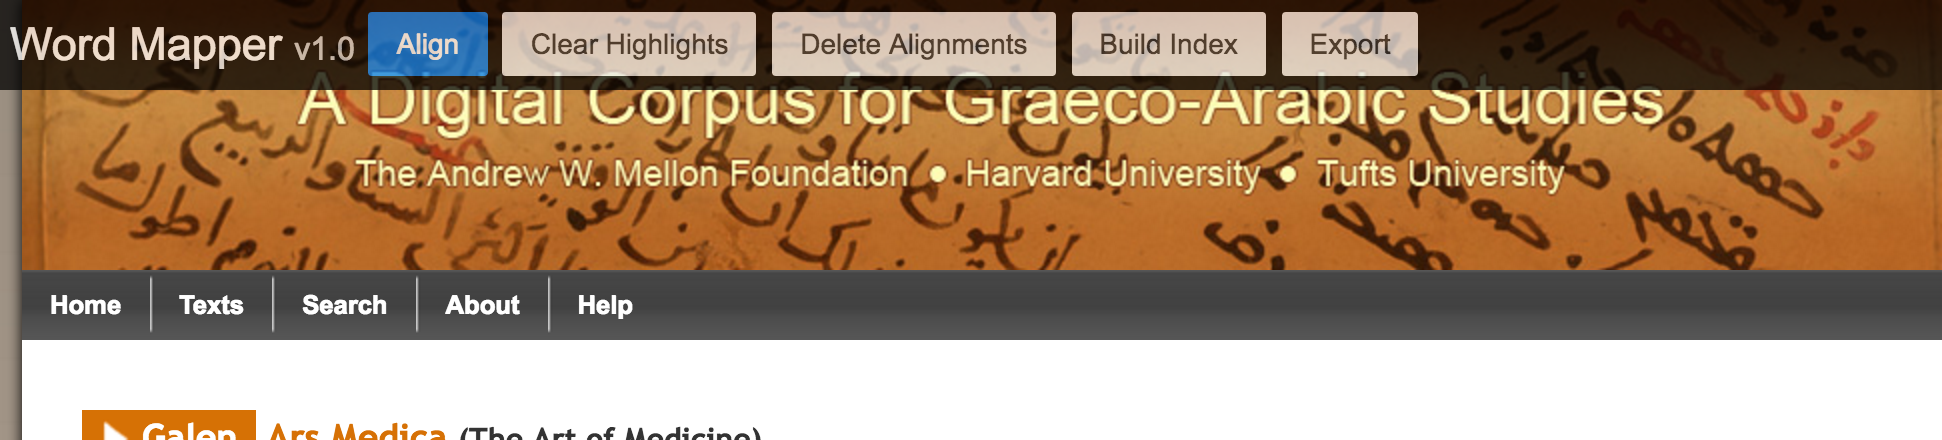
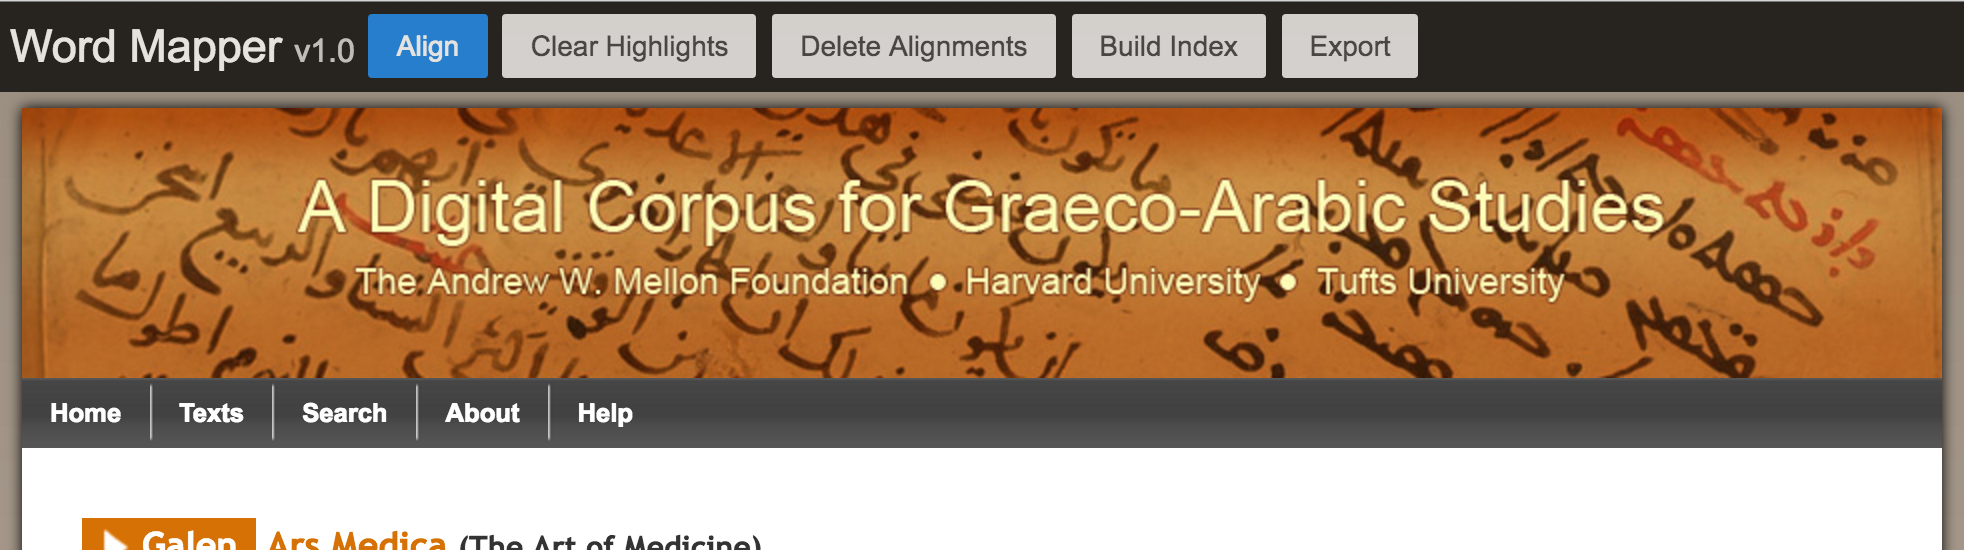
WordMapper_widget_placement, proposed screen and UI code

diff --git a/WordMapper_widget_placement/index.html b/WordMapper_widget_placement/index.html
@@ -1,3 +1,5 @@
+<!-- UI comment - (somehow) adding padding to "push down" the page so that the WordMapper widget doesn't potentially cover useful links of the web page -->
+<div style="margin-top:3em">&nbsp;</div>
   <div id="mainposition">
 
   
